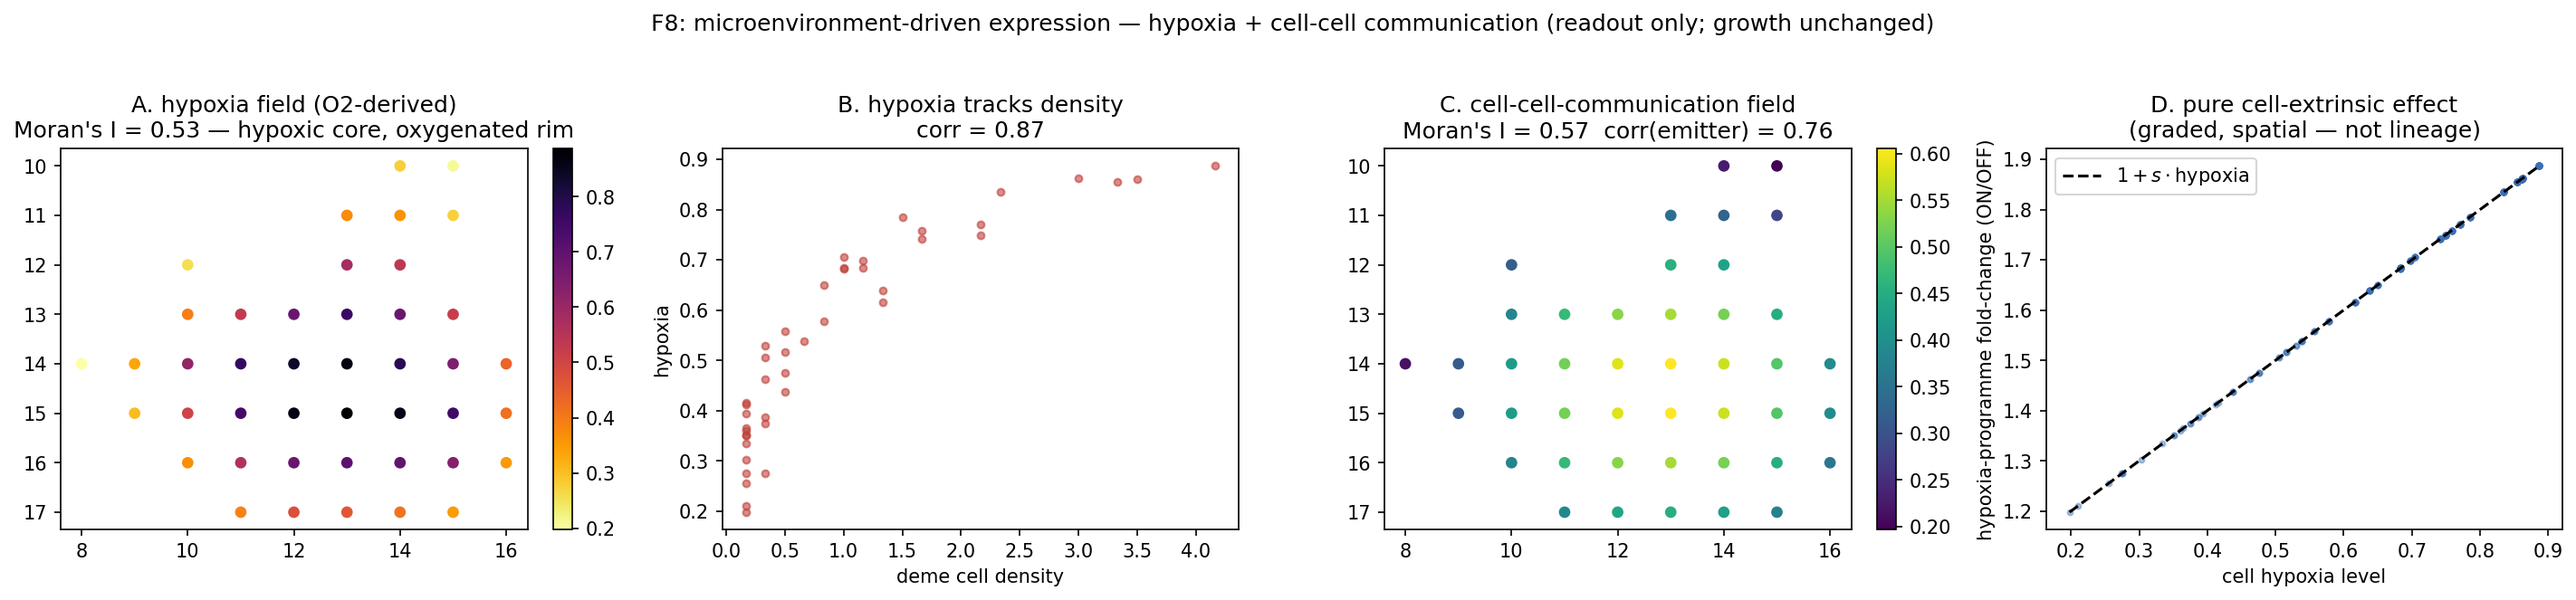
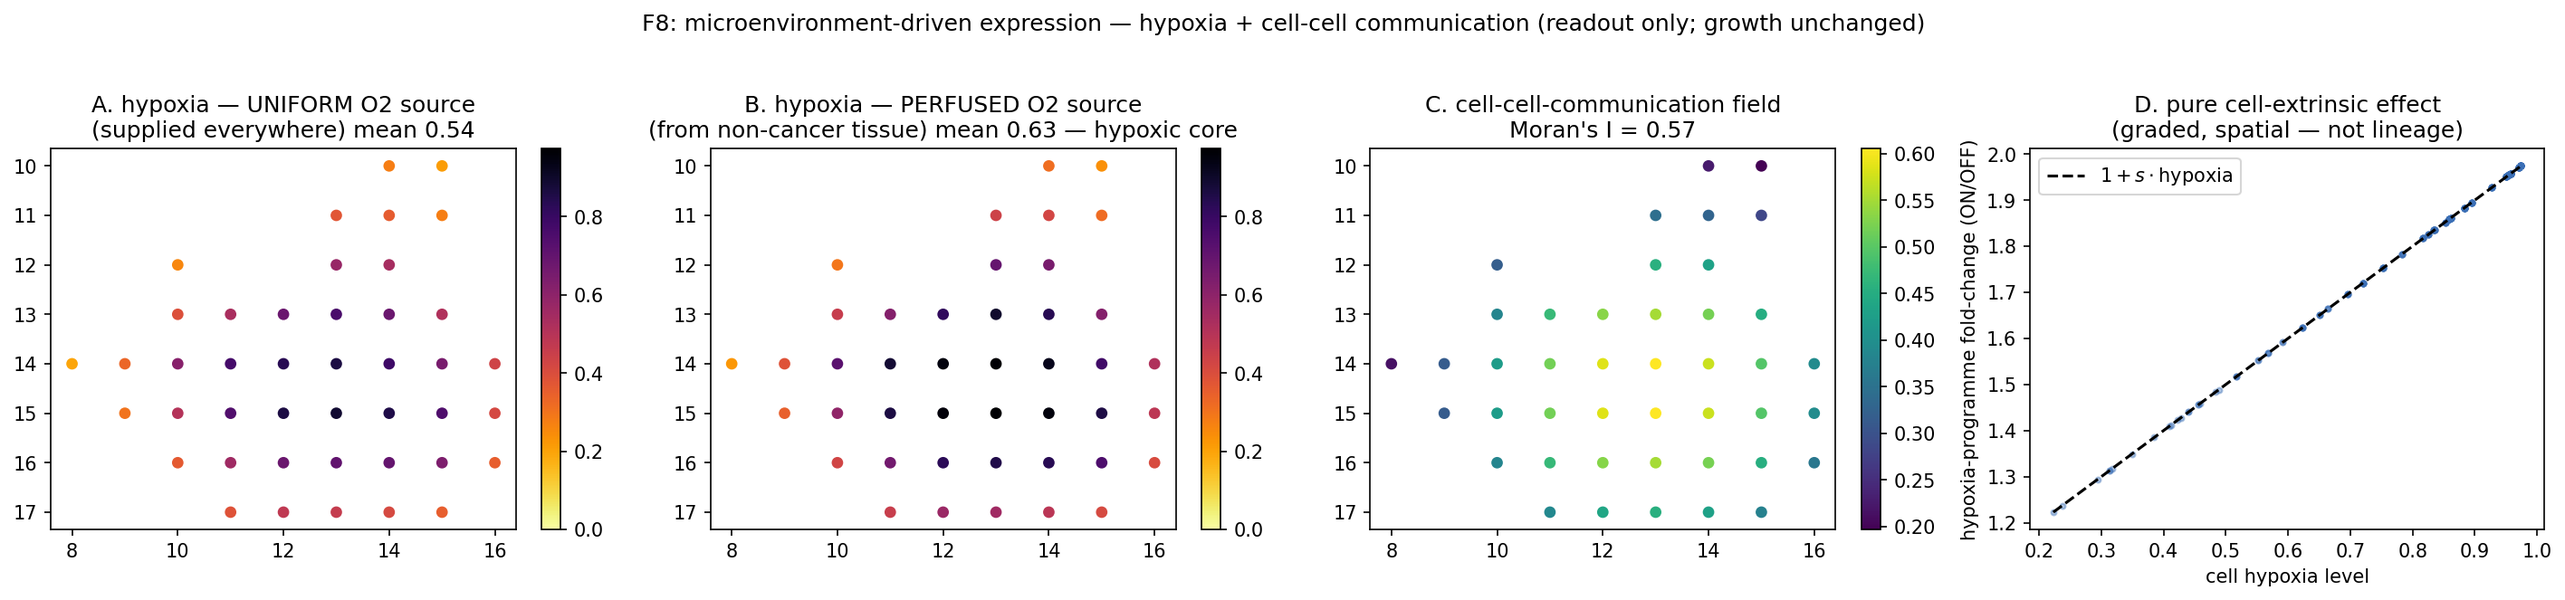
feat(F8): perfused O2-source mode — hypoxia from vasculature, not everywhere
_o2_field gains an o2_source knob: 'uniform' (current default, supplied everywhere) or 'perfused' (O2 supplied ONLY by non-cancer/perfused tissue: supply ∝ 1-cancer_density). Perfused makes a solid cancer mass or a cancer-filled duct develop a hypoxic core from the O2 diffusion limit (comedonecrosis in DCIS) even with no oxygenated margin — vasculature does not live inside a tumour. Monotone: perfused >= uniform hypoxia everywhere. Explicit vessel demes left as a future richer variant (RESEARCH_QUESTIONS R8b). +1 test; validation figure now compares uniform vs perfused on one tumour (perfused mean 0.63 vs 0.54, hotter core).

diff --git a/validation/validate_microenvironment.py b/validation/validate_microenvironment.py
@@ -45,7 +45,8 @@ def main():
     from iscc.data import morans_i
 
     mp = {
-        "hypoxia": {"strength": 1.0, "n_genes": 60, "o2_consumption": 1.5, "o2_supply": 0.5},
+        "hypoxia": {"strength": 1.0, "n_genes": 60, "o2_consumption": 1.5, "o2_supply": 0.5,
+                    "o2_source": "perfused"},
         "cci": {"strength": 0.8, "n_target_genes": 60, "emitter_type": "cancer", "lengthscale": 3.0},
     }
 
@@ -60,48 +61,47 @@ def main():
     on = grow(mp)
     print(f"tumour: {on.get_tumor_size()} cells on a {SPATIAL['grid_size']}^2 grid")
 
-    # per-deme fields (occupied demes only)
+    # per-deme fields (occupied demes only). Compare the two O2-source models on the SAME tumour.
     dens = on._deme_density()
     occ = np.where(dens > 0)[0]
     coords = np.array([on.deme_coords[d] for d in occ], dtype=float)
-    hyp = on.microenv_truth["hypoxia"]
+    H = dict(o2_consumption=1.5, o2_supply=0.5)
+    hyp_u = on._o2_field(k=H["o2_consumption"], s=H["o2_supply"], source="uniform")
+    hyp_p = on._o2_field(k=H["o2_consumption"], s=H["o2_supply"], source="perfused")
     cci = on.microenv_truth["cci"]
-    emit = on._emitter_density("cancer")
 
-    mi_hyp = morans_i(hyp[occ], coords)
+    mi_u, mi_p = morans_i(hyp_u[occ], coords), morans_i(hyp_p[occ], coords)
     mi_cci = morans_i(cci[occ], coords)
-    r_dens = np.corrcoef(dens[occ], hyp[occ])[0, 1]
-    r_emit = np.corrcoef(emit[occ], cci[occ])[0, 1]
 
     # the pure extrinsic effect: ON/OFF fold-change of the hypoxia programme, per cell
-    hyp_g = on.microenv_truth["hypoxia_genes"]
-    cci_g = on.microenv_truth["cci_target_genes"]
-    hyp_only = np.setdiff1d(hyp_g, cci_g)
+    hyp_only = np.setdiff1d(on.microenv_truth["hypoxia_genes"], on.microenv_truth["cci_target_genes"])
     on_e, off_e = on.cell_data["cell_exp"].values, off.cell_data["cell_exp"].values
     ratio = np.divide(on_e, off_e, out=np.full_like(on_e, np.nan), where=off_e > 0)
     fold = np.nanmean(ratio[:, hyp_only], axis=1)                 # per-cell mean fold-change
     lvl = on.cell_data["cell_microenv"]["hypoxia_level"].values
 
-    print(f"hypoxia field  : Moran's I {mi_hyp:.3f}  corr(density) {r_dens:.3f}  "
-          f"range {hyp[occ].min():.2f}..{hyp[occ].max():.2f}")
-    print(f"CCI field      : Moran's I {mi_cci:.3f}  corr(emitter) {r_emit:.3f}")
+    print(f"uniform  O2 source: hypoxia {hyp_u[occ].min():.2f}..{hyp_u[occ].max():.2f}  "
+          f"mean {hyp_u[occ].mean():.2f}  Moran's I {mi_u:.2f}")
+    print(f"perfused O2 source: hypoxia {hyp_p[occ].min():.2f}..{hyp_p[occ].max():.2f}  "
+          f"mean {hyp_p[occ].mean():.2f}  Moran's I {mi_p:.2f}  (stronger core -> comedonecrosis)")
 
     import matplotlib
     matplotlib.use("Agg")
     import matplotlib.pyplot as plt
 
     fig, ax = plt.subplots(1, 4, figsize=(19, 4.3))
+    vmax = max(hyp_u[occ].max(), hyp_p[occ].max())
 
-    sc = ax[0].scatter(coords[:, 1], coords[:, 0], c=hyp[occ], cmap="inferno_r", s=26)
-    ax[0].set_title(f"A. hypoxia field (O2-derived)\nMoran's I = {mi_hyp:.2f} — hypoxic core, oxygenated rim")
+    sc = ax[0].scatter(coords[:, 1], coords[:, 0], c=hyp_u[occ], cmap="inferno_r", s=26, vmin=0, vmax=vmax)
+    ax[0].set_title(f"A. hypoxia — UNIFORM O2 source\n(supplied everywhere) mean {hyp_u[occ].mean():.2f}")
     ax[0].invert_yaxis(); fig.colorbar(sc, ax=ax[0], fraction=0.046)
 
-    ax[1].scatter(dens[occ], hyp[occ], s=14, alpha=0.6, color="#c0413b")
-    ax[1].set(xlabel="deme cell density", ylabel="hypoxia",
-              title=f"B. hypoxia tracks density\ncorr = {r_dens:.2f}")
+    sc1 = ax[1].scatter(coords[:, 1], coords[:, 0], c=hyp_p[occ], cmap="inferno_r", s=26, vmin=0, vmax=vmax)
+    ax[1].set_title(f"B. hypoxia — PERFUSED O2 source\n(from non-cancer tissue) mean {hyp_p[occ].mean():.2f} — hypoxic core")
+    ax[1].invert_yaxis(); fig.colorbar(sc1, ax=ax[1], fraction=0.046)
 
     sc2 = ax[2].scatter(coords[:, 1], coords[:, 0], c=cci[occ], cmap="viridis", s=26)
-    ax[2].set_title(f"C. cell-cell-communication field\nMoran's I = {mi_cci:.2f}  corr(emitter) = {r_emit:.2f}")
+    ax[2].set_title(f"C. cell-cell-communication field\nMoran's I = {mi_cci:.2f}")
     ax[2].invert_yaxis(); fig.colorbar(sc2, ax=ax[2], fraction=0.046)
 
     order = np.argsort(lvl)

diff --git a/src/iscc/tumor/models/count.py b/src/iscc/tumor/models/count.py
@@ -573,16 +573,27 @@ class GenotypeTumor:
                          if self.genotypes[gid].type == emitter_type) / cc
         return out
 
-    def _o2_field(self, D=1.0, k=1.0, s=0.2, n_iter=500, tol=1e-5):
+    def _o2_field(self, D=1.0, k=1.0, s=0.2, source="uniform", n_iter=500, tol=1e-5):
         """Steady-state O2 on the deme grid (BioFVM-style), returned as hypoxia = 1 - O2.
 
-        Solves D∇²O2 + s(1-O2) - k·density·O2 = 0 (supply everywhere from microvasculature,
-        consumed ∝ local density) by Jacobi relaxation with zero-flux edges. O2 ∈ [0,1] (a
-        weighted average of neighbours and the supply target 1), so hypoxia ∈ [0,1], high in the
-        dense core and low at the sparse rim — the viable-rim / necrotic-core signature.
+        Solves D∇²O2 + supply·(1-O2) - k·density·O2 = 0 by Jacobi relaxation with zero-flux edges.
+        O2 ∈ [0,1] (a weighted average of neighbours and the supply target 1), so hypoxia ∈ [0,1].
+
+        `source` sets where O2 comes from:
+          * ``"uniform"`` — supplied everywhere (a well-vascularised-tissue assumption). Gives a
+            hypoxic core only when the tumour has an oxygenated (empty/normal) margin.
+          * ``"perfused"`` — supplied ONLY by non-cancer (perfused stroma / empty) tissue:
+            supply ∝ (1 - cancer density). A solid cancer mass or a cancer-filled duct then develops
+            a hypoxic core from the O2 diffusion limit (comedonecrosis in DCIS) even with no empty
+            margin, because the vasculature does not live inside the tumour.
         """
         G = self.grid_size
         dens = self._deme_density().reshape(G, G)
+        if source == "perfused":
+            perfusion = np.clip(1.0 - self._emitter_density("cancer"), 0.0, 1.0).reshape(G, G)
+            supply = s * perfusion
+        else:
+            supply = s
         nn = np.full((G, G), 4.0)
         nn[0, :] -= 1; nn[-1, :] -= 1; nn[:, 0] -= 1; nn[:, -1] -= 1
         O2 = np.ones((G, G))
@@ -590,7 +601,7 @@ class GenotypeTumor:
             nb = np.zeros((G, G))
             nb[1:, :] += O2[:-1, :]; nb[:-1, :] += O2[1:, :]
             nb[:, 1:] += O2[:, :-1]; nb[:, :-1] += O2[:, 1:]
-            new = (D * nb + s) / (D * nn + s + k * dens)
+            new = (D * nb + supply) / (D * nn + supply + k * dens)
             if np.max(np.abs(new - O2)) < tol:
                 O2 = new
                 break
@@ -626,7 +637,8 @@ class GenotypeTumor:
         if len(self._hypoxia_genes) and float(hyp.get("strength", 0.0)) != 0.0:
             hypoxia = self._o2_field(D=float(hyp.get("o2_diffusion", 1.0)),
                                      k=float(hyp.get("o2_consumption", 1.0)),
-                                     s=float(hyp.get("o2_supply", 0.2)))
+                                     s=float(hyp.get("o2_supply", 0.2)),
+                                     source=hyp.get("o2_source", "uniform"))
             mod[:, self._hypoxia_genes] *= (1.0 + float(hyp["strength"]) * hypoxia[:, None])
         if len(self._cci_target_genes) and float(cci.get("strength", 0.0)) != 0.0:
             cci_signal = self._cci_field(cci.get("emitter_type", "immune"),

diff --git a/tests/test_microenvironment.py b/tests/test_microenvironment.py
@@ -121,6 +121,16 @@ class TestFields:
         h = on.microenv_truth["hypoxia"]
         assert (h >= 0).all() and (h <= 1).all()
 
+    def test_perfused_source_more_hypoxic_than_uniform(self, on):
+        # "perfused": O2 supplied only by non-cancer tissue (supply <= uniform everywhere), so a
+        # solid cancer mass is MORE hypoxic in its interior -> the DCIS comedonecrosis mechanism.
+        hu = on._o2_field(source="uniform")
+        hp = on._o2_field(source="perfused")
+        occ = on._deme_density() > 0
+        assert (hp >= hu - 1e-6).all()              # monotone: never less hypoxic than uniform
+        assert hp[occ].mean() > hu[occ].mean()      # strictly more hypoxic within the tumour
+        assert (hp >= 0).all() and (hp <= 1).all()
+
 
 # --------------------------------------------------------------------- ground truth -----------
 class TestGroundTruth:

diff --git a/DESIGN_features.md b/DESIGN_features.md
@@ -445,10 +445,15 @@ methods — the exact tools the integration story needs to run on.
 snapshot so it stays tau-leaping-compatible; per-cell expression still materialized on demand):
 
 1. **Diffusible fields (hypoxia / secreted factors)** — *translate PhysiCell/BioFVM*. Solve a
-   steady-state reaction–diffusion on the deme grid: O₂ supplied at the tumour boundary (or seeded
-   "vessels"), consumed ∝ local cell density → a hypoxia field with a tunable diffusion lengthscale.
-   Generic secreted-factor fields (e.g. a stromal morphogen) work the same way. Each cell reads its
-   deme's field value. Recapitulates the classic **viable rim / hypoxic-necrotic core**.
+   steady-state reaction–diffusion on the deme grid, consumed ∝ local cell density → a hypoxia
+   field. The O₂ **source** is configurable (`o2_source`): `"uniform"` supplies everywhere (a
+   well-vascularised-tissue assumption; a hypoxic core needs an oxygenated margin); `"perfused"`
+   supplies **only from non-cancer (perfused stroma / empty) tissue** — vasculature does not live
+   inside a tumour — so a solid cancer mass or a **cancer-filled duct** develops a hypoxic core from
+   the O₂ diffusion limit (**comedonecrosis** in DCIS) even with no empty margin. Each cell reads
+   its deme's field value. Recapitulates the classic **viable rim / hypoxic-necrotic core**.
+   (Explicit vessel demes as discrete O₂ sources — the substrate for angiogenesis / anti-VEGF
+   studies — are a future richer variant; see RESEARCH_QUESTIONS R8b.)
 2. **Cell–cell communication (ligand–receptor)** — *translate scMultiSim / sCCIgen*. A cell's
    receptor-target genes are modulated by the **ligand-emitting cell density in its deme
    neighbourhood** (immune, stromal, or clone-specific ligands). Deme-neighbourhood aggregation, the
